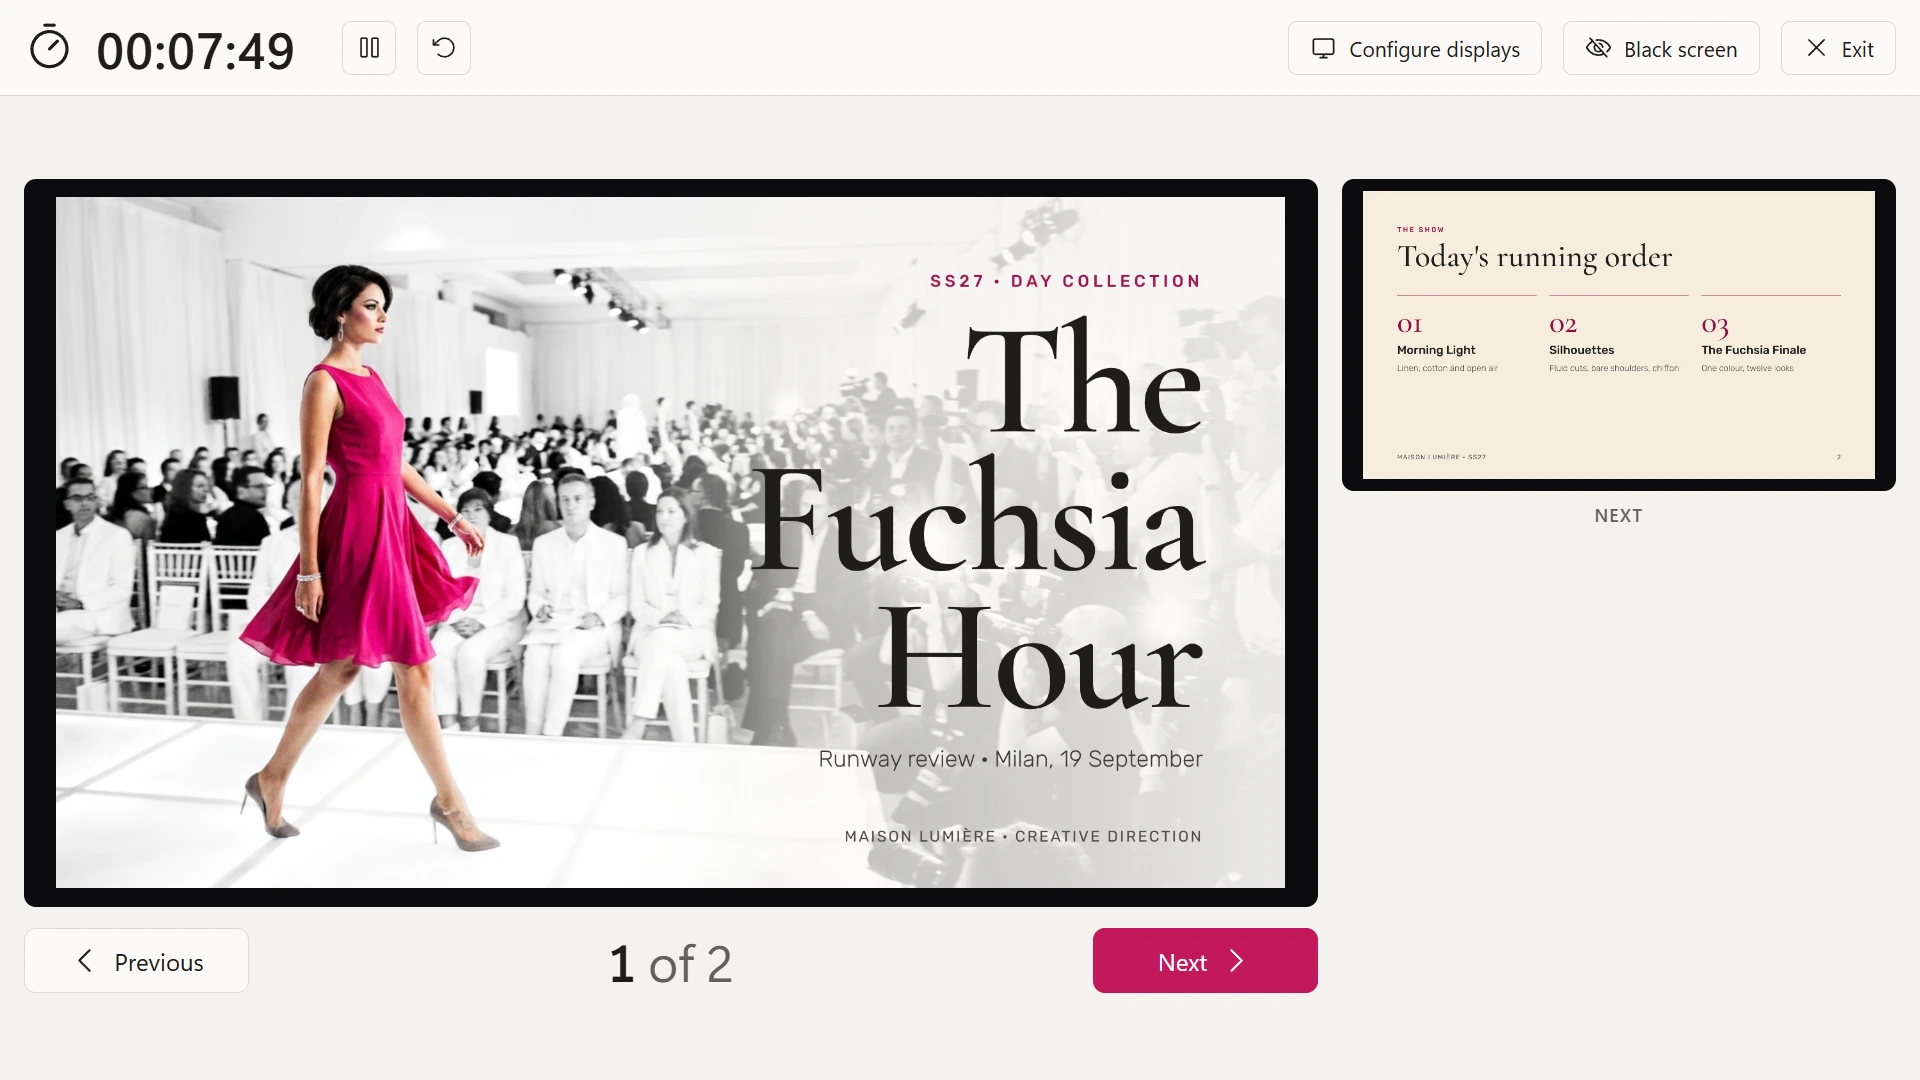
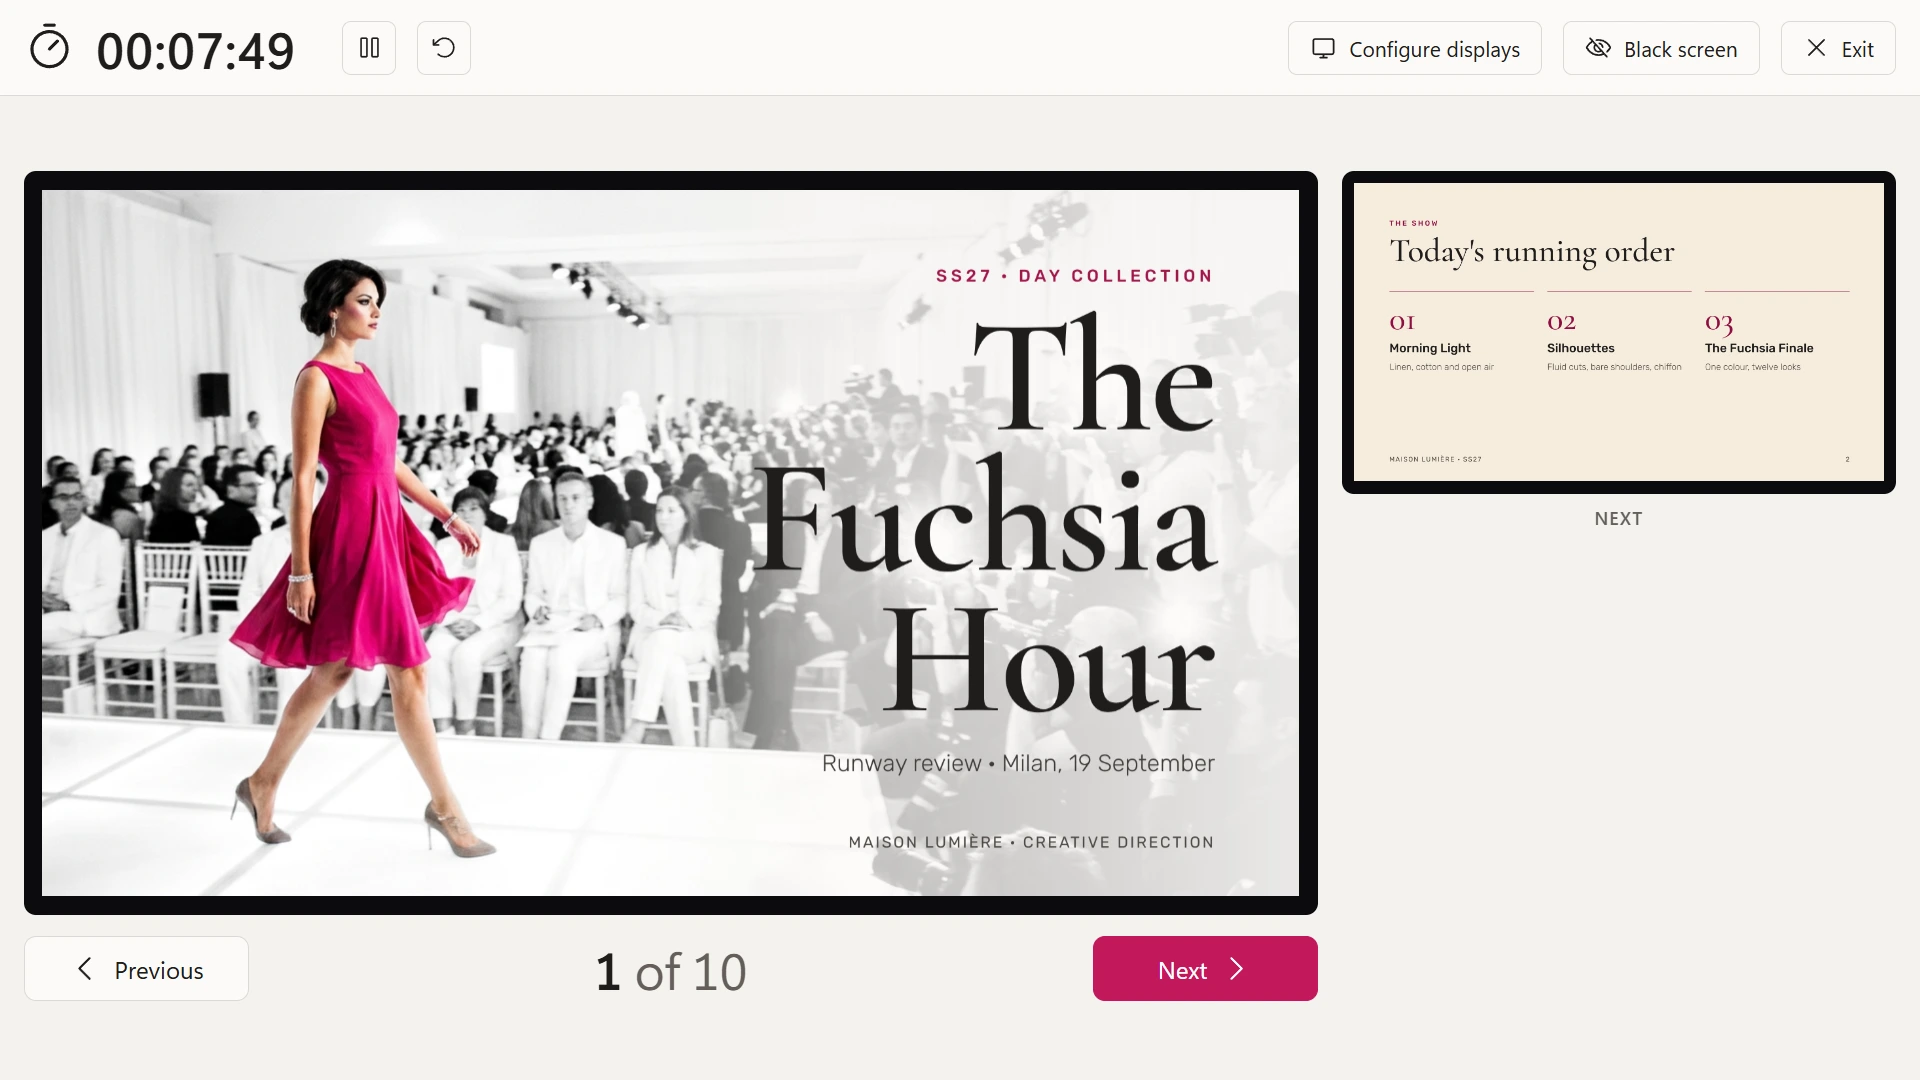
docs: website screenshots from version 1.5.0

diff --git a/docs/website.md b/docs/website.md
@@ -55,7 +55,7 @@ The site is served at the custom domain `pdfdiva.nilovelez.com` (since 2026-10-1
 - **`apple-touch-icon.png` (180) and `og.png` (1200×630)**: `og.png` is the dark background `#1D1C1B`, the rounded icon (`resources/icons/app/icon-512.png`), "PDF Diva", the tagline and "Free and open source · pdfdiva.nilovelez.com", in Segoe UI with the site's dark colors. The same design at 1920×1080 is the video thumbnail, `press/videos/pdf_diva_promo.png`. They keep their current design on purpose.
 - **`star-icon.png`**: the small star next to "PDF Diva" in the header.
 - **`ms-store-badge-light.svg` / `ms-store-badge-dark.svg`**: Microsoft's official "Download from the Microsoft Store" badge (en-US), in the hero and the closing section, one per theme (`.only-light` / `.only-dark`), as tall as the buttons next to it. Microsoft's asset, used under its badge guidelines (see `THIRD-PARTY-NOTICES.md`). One edit on purpose: its border uses the site's `--line` colour (`#DDD9D3` light, `#3C3A37` dark) at 0.8 units, which is 1 px at the 55 px height used, so it looks like the buttons next to it. The buttons (`.btn`) have 6 px corners to match the badge's.
-- **Screenshots**: `screenshot-light.webp` and `screenshot-dark.webp` are the speaker view of version 1.3.0 at 1920×1080 (a laptop at 150% scaling), in English: the light one presents *The Fuchsia Hour*, the dark one *The Gold Hour* (sample PDFs we own). The originals are in the shared folder on the NAS, `Z:\pdf-diva\capturas-1.3.0\en\` (`3-speaker-light.png` and `5-speaker-dark.png`); the same folder has the welcome screen, the reader and "Configure displays", in English and Spanish. They were converted to WebP at full resolution, quality 92, using the canvas of the project's own Electron (`canvas.toDataURL('image/webp', 0.92)`); any WebP encoder works. Keep the `width` and `height` attributes in `index.html` in sync with the files.
+- **Screenshots**: `screenshot-light.webp` and `screenshot-dark.webp` are the speaker view of version 1.5.0 at 1920×1080 (a laptop at 150% scaling), in English: the light one presents *The Fuchsia Hour*, the dark one *The Gold Hour* (sample PDFs we own). The originals are in the shared folder on the NAS, `Z:\pdf-diva\capturas-1.5.0\en\` (`3-speaker-light.png` and `5-speaker-dark.png`); the same folder has the welcome screen, the reader and "Configure displays", in English and Spanish. They were converted to WebP at full resolution, quality 92, using the canvas of the project's own Electron (`canvas.toDataURL('image/webp', 0.92)`); any WebP encoder works. Keep the `width` and `height` attributes in `index.html` in sync with the files.
 
 ## Releasing a new version
 
